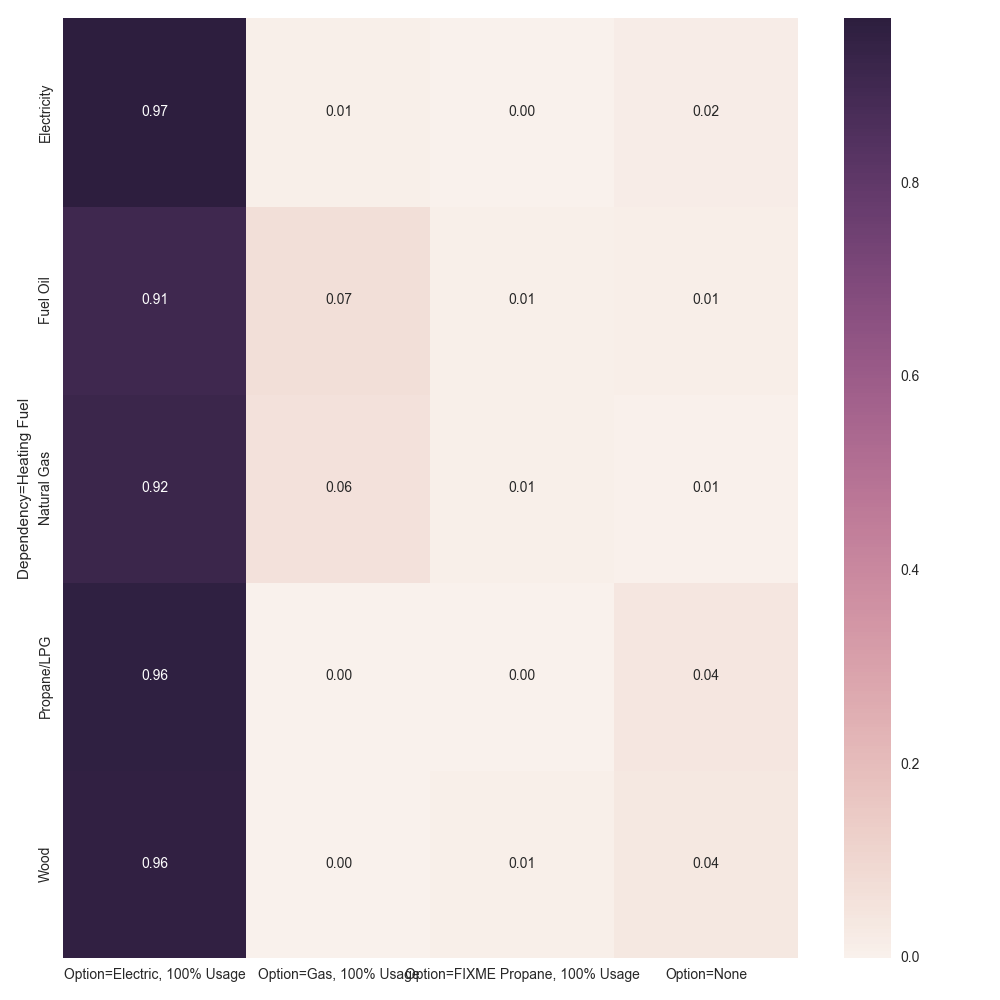
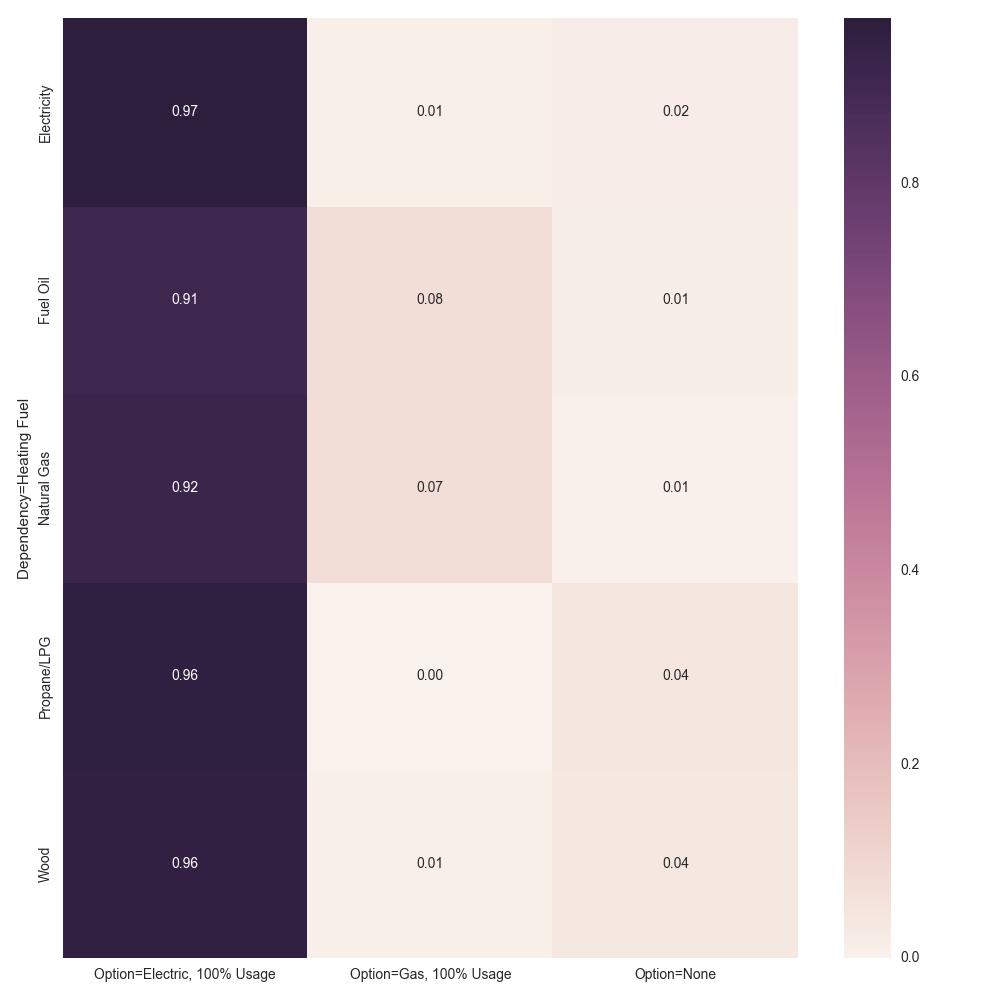
Closes #29.

diff --git a/data/rbsa/main.py b/data/rbsa/main.py
@@ -1117,7 +1117,7 @@ class Create_DFs():
         df['Count'] = count
         df['Weight'] = weight
         df = add_option_prefix(df)
-        df = df[['Option=Electric, 100% Usage', 'Option=Gas, 100% Usage', 'Option=FIXME Propane, 100% Usage', 'Option=None', 'Count', 'Weight']]
+        df = df[['Option=Electric, 100% Usage', 'Option=Gas, 100% Usage', 'Option=None', 'Count', 'Weight']]
         return df
 
 def to_figure(df, file):

diff --git a/data/rbsa/util.py b/data/rbsa/util.py
@@ -846,7 +846,7 @@ def assign_cd(df):
     fueltypekey = {'Electric': 'Electric',
                    'Gas': 'Gas',
                    'Oil/Kerosene': 'Oil',
-                   'Propane': 'Propane',
+                   'Propane': 'Gas',
                    'Wood': 'Other Fuel',
                    'Other': 'Other Fuel',
                    'Oil': 'Oil',
